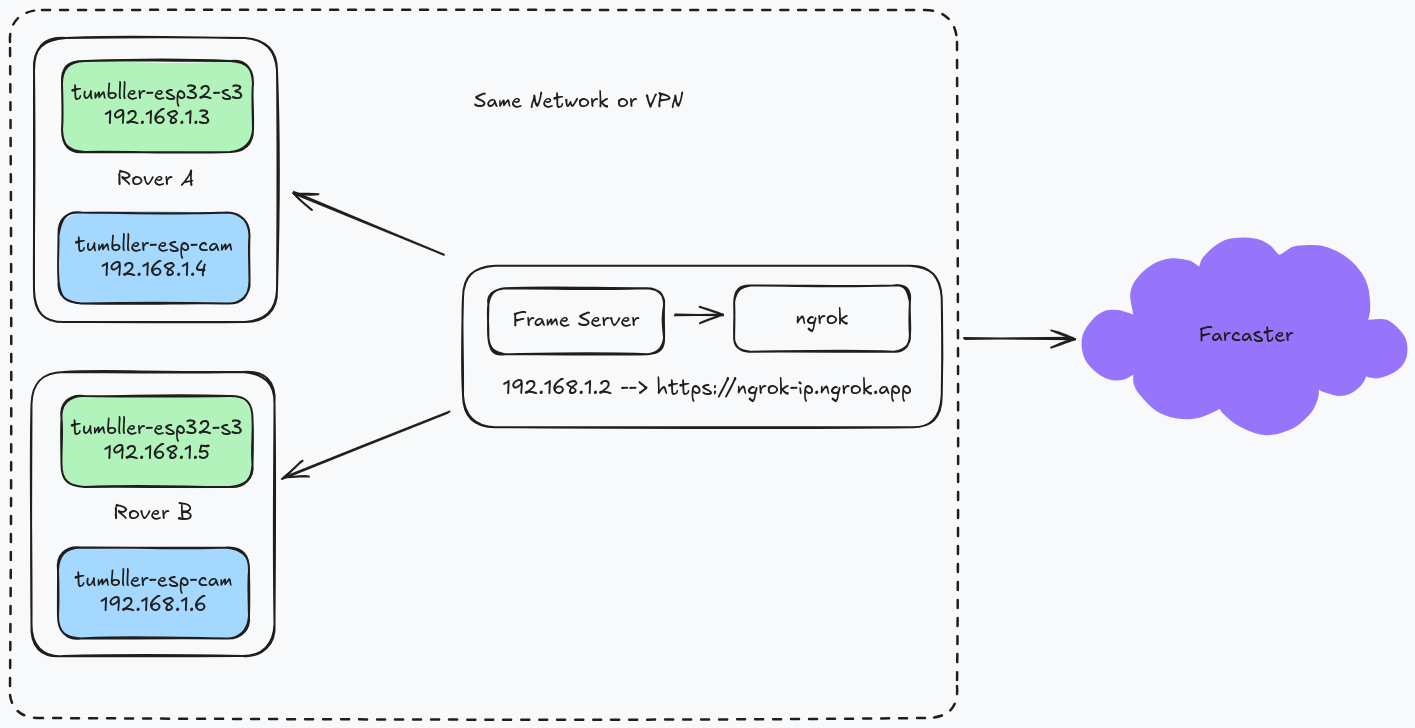
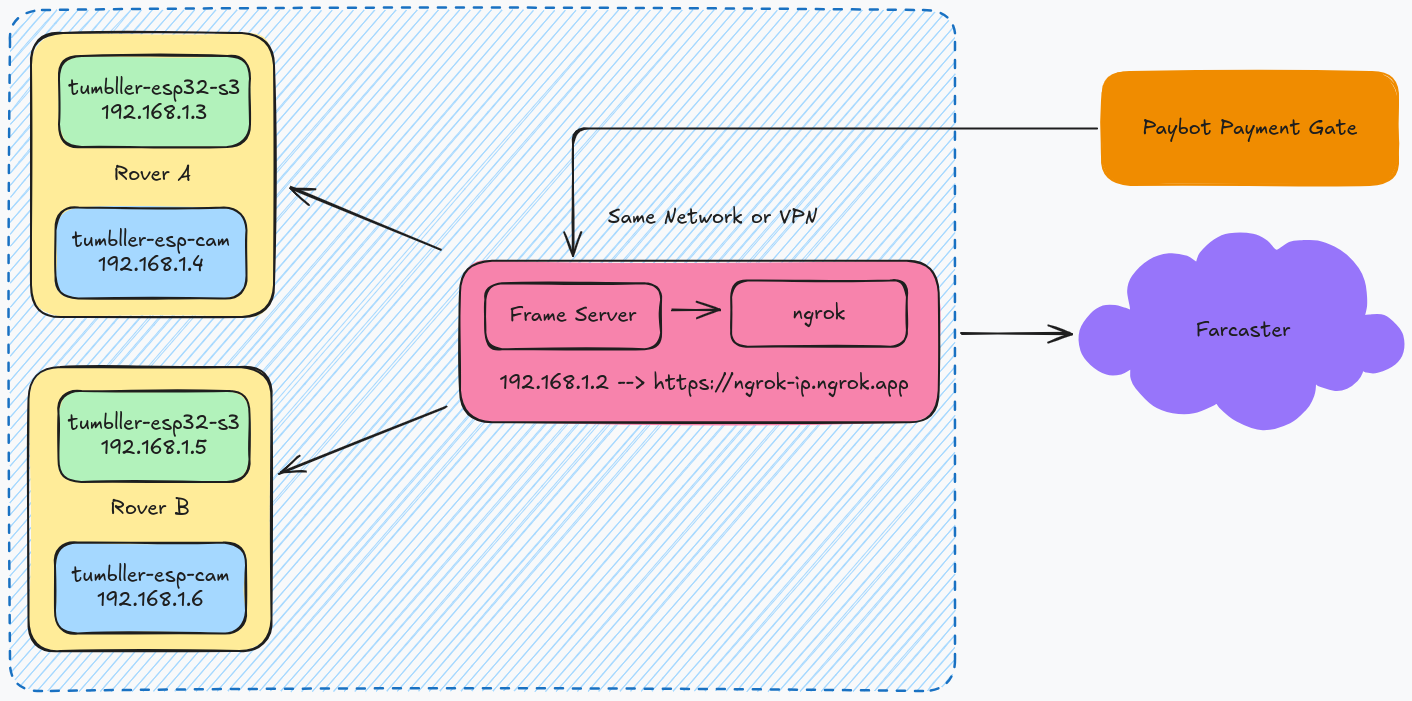
More content to the post and embed corrections

diff --git a/_posts/2024-12-06-tumbller-cryptobot-architecture.md b/_posts/2024-12-06-tumbller-cryptobot-architecture.md
@@ -17,7 +17,7 @@ Two weeks ago I was at Devcon 7 in Bangkok and had a small demo with our small y
 Tumbller is a robotics educational learning kit Elegoo. It runs on an Arduino Nano and does not have WiFi. To add WiFi to the Tumbller we decided to use an Arduino Nano ESP32 because it has the same pinout as Arduino Nano. But the problem was that the Tumbller PCB runs on 5V and Nano ESP32 on 3.3V. We designed a custom plugin board to fit on the Tumbller PCB that would voltage level translator in between the MCU and PCB board. We got the plugin board manufactured from JLCPCB in China. Here is a 3D render of the plugin board we designed.
 
 <video width="640" height="360" controls>
-  <source src="{{ '/assets/videos/my-video.mp4' | relative_url }}" type="video/mp4">
+  <source src="{{ '/assets/videos/2024-12-06-cyptobot-tumbler-plugin.mp4' | relative_url }}" type="video/mp4">
   Your browser does not support the video tag.
 </video>
 
@@ -30,7 +30,12 @@ We also put a camera ESP32 on the robot. The camera is basically ESP32-CAM devki
 
 ### Software
 
+The broad software architecture of the farcaster frame-v1 with payment gate is shown below. 
 
+<figure>
+    <a href="/assets/images/blog/2024-12-06-cryptobot-tumbller-fcframe.png"><img src="/assets/images/blog/2024-12-06-cryptobot-tumbller-fcframe.png"></a>
+    <figcaption>Noisy human communication</figcaption>
+</figure>
 
 The tumbller-esp32-s3 exposes the motion and motor control affordance of the cryptobot via five endpoints. The endpoints `/move/forward`, `/move/backward`, `/move/left`, `/move/right` and `/move/stop` control the movements for forward, backward, left, right and stop respectively.
 
